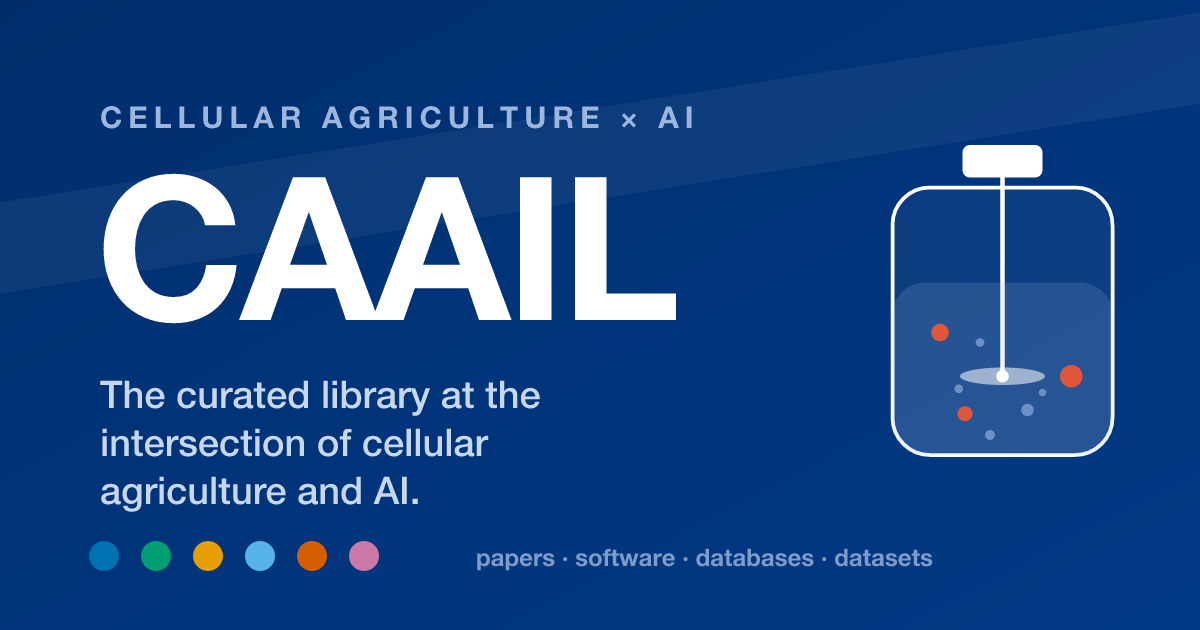
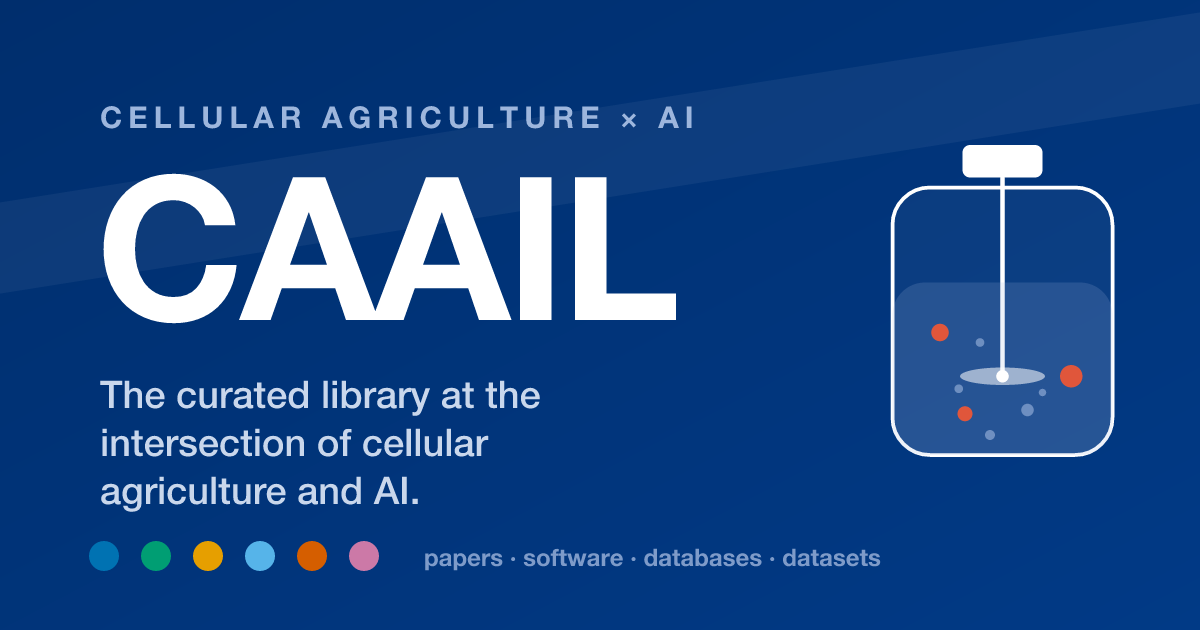
fix(site): close the holes round 2 left, including one in its own guard
Round 3, four findings.

The social card was visibly broken by round 2 and shipped that way. Shortening
the area-colour array from seven to six left the caption's x-coordinate as the
literal `104 + 7 * 52 + 8`, so the gap between the last dot and the caption
went from 45px to 97px on the site-wide og:image. The coordinate now derives
from `AREA.length` and og.png is regenerated — the same hardcoded-count-beside-
a-derived-array pattern the retirement was cleaning up in the first place.

The grid guard had a hole of its own, three lines from where it was added. It
read only the first block comment, and `agent-api.ts` states the same pair
again in `buildMatrix`'s docstring 148 lines below, phrased "(70 of 150)". It
now checks every restatement in the file, including that form.

Strengthening it surfaced two false positives worth recording, because both
were the guard reading prose as a claim: scanning backwards to the nearest
digit took an unrelated number as the count for the manifest's number-less
"All method×area cells", and the 17 of "17 dataset pages" as the count for
"which tools, datasets and prior work". The number must be adjacent; a phrase
with no number against it asserts nothing.

`plugin.json`'s marketplace description carries six corpus figures and had no
CI behind it at all — no workflow's paths filter matched
`plugin/.claude-plugin/**`, which is how it came to be stale in two independent
[…]

Changed region(s): [[0.3392, 0.8746, 0.7708, 0.9048]]

diff --git a/site/scripts/parser/agent-api.test.ts b/site/scripts/parser/agent-api.test.ts
@@ -26,6 +26,7 @@ import {
   PLACEMENT_NOTE,
 } from './agent-api.js';
 import { buildPapersModel } from './papers.js';
+import { computeCounts } from './counts.js';
 import { buildCatalogModel } from './catalog.js';
 import { buildDatasetsModel } from './datasets-entries.js';
 import { buildDatasetInventory } from './dataset-inventory.js';
@@ -35,6 +36,7 @@ import { extractInventory } from '../db/extract.js';
 import { curatedEntryCount } from './datasets.js';
 
 const papers = buildPapersModel();
+const counts = computeCounts(papers);
 const catalog = buildCatalogModel();
 const datasets = buildDatasetsModel();
 const inventory = buildDatasetInventory();
@@ -416,24 +418,68 @@ describe('prose that quotes the matrix grid size', () => {
    * while saying something false. A transposition is exactly the edit these numbers
    * invite, since they are read far more often than they are changed.
    */
-  const numberBefore = (text: string, phrase: string): number | null => {
-    const i = text.indexOf(phrase);
-    if (i < 0) return null;
-    const m = text.slice(0, i).match(/(\d+)\D*$/);
-    return m ? Number(m[1]) : null;
+  /**
+   * EVERY number written directly against a phrase, not just the first.
+   *
+   * Scoping to one comment block was itself a hole: `agent-api.ts` states the same pair
+   * twice, in the module doc and again in `buildMatrix`'s docstring 148 lines below, and
+   * a guard that stopped at the first close-comment left the second free to contradict
+   * it with a green suite. Returning every occurrence means a third restatement cannot
+   * quietly escape the check.
+   *
+   * The number must be ADJACENT. Scanning backwards to the nearest digit anywhere ahead
+   * of the phrase reads unrelated numbers as claims: it took a line number out of nearby
+   * code as the count for the manifest's number-less "All method×area cells", and the 17
+   * of "17 dataset pages" as the count for "which tools, datasets and prior work". Those
+   * are prose mentions, not assertions, so a phrase with no number against it is not a
+   * claim this guard has anything to say about.
+   */
+  const numbersBefore = (text: string, phrase: string): number[] => {
+    const esc = phrase.replace(/[.*+?^${}()|[\]\\]/g, '\\$&');
+    return [...text.matchAll(new RegExp(`(\\d+)\\s*${esc}`, 'g'))].map((m) => Number(m[1]));
+  };
+
+  /** Assert the phrase carries a number at least once, and that every one is `expected`. */
+  const everyMention = (text: string, phrase: string, expected: number, label: string) => {
+    const found = numbersBefore(text, phrase);
+    expect(found.length, `${label}: no number written against "${phrase}"`).toBeGreaterThan(0);
+    expect(found, label).toEqual(found.map(() => expected));
   };
 
   it('the installed plugin skill states the live total and empty-cell counts', () => {
     const src = read('plugin', 'skills', 'caail', 'SKILL.md');
-    expect(numberBefore(src, 'method×area cells'), 'SKILL.md: cell total').toBe(matrix.totalCells);
-    expect(numberBefore(src, 'with no indexed paper'), 'SKILL.md: empty count').toBe(matrix.emptyCells);
+    everyMention(src, 'method×area cells', matrix.totalCells, 'SKILL.md: cell total');
+    everyMention(src, 'with no indexed paper', matrix.emptyCells, 'SKILL.md: empty count');
   });
 
-  it('agent-api.ts’s module doc states the live total, empty and populated counts', () => {
+  it('every restatement in agent-api.ts agrees with the live grid', () => {
     const src = read('site', 'scripts', 'parser', 'agent-api.ts');
-    const doc = src.slice(0, src.indexOf('*/'));
-    expect(numberBefore(doc, 'method×area cells'), 'agent-api doc: cell total').toBe(matrix.totalCells);
-    expect(numberBefore(doc, 'with no indexed paper'), 'agent-api doc: empty count').toBe(matrix.emptyCells);
-    expect(numberBefore(doc, 'populated ones'), 'agent-api doc: populated count').toBe(matrix.populatedCells);
+    everyMention(src, 'method×area cells', matrix.totalCells, 'agent-api: cell total');
+    everyMention(src, 'with no indexed paper', matrix.emptyCells, 'agent-api: empty count');
+    everyMention(src, 'populated ones', matrix.populatedCells, 'agent-api: populated count');
+    // `buildMatrix`'s docstring phrases the same pair as "(70 of 150)" rather than in words.
+    const ofPair = src.match(/\((\d+) of (\d+)\)/);
+    expect(ofPair, 'agent-api: the "(N of M)" restatement').not.toBeNull();
+    expect([Number(ofPair![1]), Number(ofPair![2])], 'agent-api: populated of total').toEqual([
+      matrix.populatedCells,
+      matrix.totalCells,
+    ]);
+  });
+
+  /**
+   * The marketplace description, which is the one corpus summary with NO workflow behind
+   * it: until this branch no `paths:` filter matched `plugin/.claude-plugin/**`, so an
+   * edit there triggered nothing. It was found stale twice over in one review (a retired
+   * column, and a dataset total 33 short), which is what a figure nobody checks looks like.
+   */
+  it('the plugin marketplace description states live corpus figures', () => {
+    const desc = JSON.parse(read('plugin', '.claude-plugin', 'plugin.json')).description as string;
+    everyMention(desc, ' papers', counts.papers, 'plugin.json: papers');
+    everyMention(desc, ' methods', papers.methods.length, 'plugin.json: methods');
+    everyMention(desc, ' research areas', papers.areas.length, 'plugin.json: areas');
+    everyMention(desc, ' software tools', counts.software, 'plugin.json: software');
+    everyMention(desc, ' databases', counts.databases, 'plugin.json: databases');
+    everyMention(desc, ' datasets', counts.datasets, 'plugin.json: datasets');
+    everyMention(desc, ' dataset pages', counts.species, 'plugin.json: dataset pages');
   });
 });

diff --git a/site/src/styles/tokens.css b/site/src/styles/tokens.css
@@ -76,9 +76,9 @@
      DO map to an area take that area's colour, resolved from data in lib/theme-colors.ts
      — never hardcoded per-slug in CSS.
 
-     These two need their own values, and honestly: 6 areas + 2 area-less themes sits at
-     the ~7-category limit where colours stay reliably distinguishable, especially under
-     CVD. So they are separated by LIGHTNESS as well as hue (both much darker than the
+     These two need their own values, and honestly: 6 areas + 2 area-less themes is 8,
+     still past the ~7-category limit where colours stay reliably distinguishable, and
+     more so under CVD. So they are separated by LIGHTNESS as well as hue (both much darker than the
      nearest area) rather than by hue alone, and neither reuses an area token — the
      By the Numbers page shows areas and themes together, so one colour meaning two
      different things there would be exactly the confusion this palette exists to avoid.
